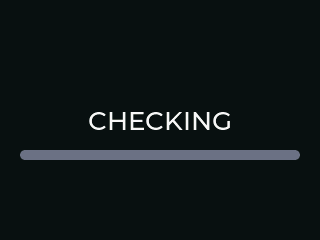
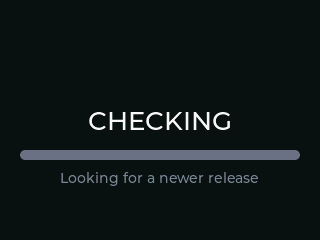
OTA: OK acknowledges the outcome, a detail line, and a 10 s / 300 s dwell
Makes the 16 failing cases from e87753c pass. Three pieces.

THE DWELL. kFailureHoldMs 30 s -> 10 s, kAckTimeoutMs 120 s -> 300 s.
The owner's reason for 300 s: "I don't want to miss it if I'm away in the
workshop looking at something else." The owner also observed the two
numbers "sound like the same", which was fair, so the header now says
plainly that the FLOOR only stops a stray keypress dismissing a notice
before it has been readable, and the DWELL is the operator-facing
unattended wait - only the second was ever what you sit through.

What 300 s costs is written into that header rather than left to be
rediscovered: while hasOTA() is true, timerCallback() runs
commsManager.loop() instead of spindle->update() + leadscrew->update(),
so the motion loop is idle for the whole five minutes. Accepted, because
the operator has just started an update and OK now releases it - but
"the lathe was dead for five minutes" is what this looks like from the
outside, and nobody should have to work that out twice.

THE ACKNOWLEDGEMENT. A forced UiFocus::Ota in lib/ui, not a route in
src/buttonpad.cpp, because buttonpad.h says outright that nothing in src/
is host-testable and no new decision logic belongs there. It mirrors
UiFocus::Alarm: focus forced from both handleKey() and tick(), the run
latch, jog direction, confirm bar, press marker and menu all cleared,
every key inert except OK's Click, no idle timeout, released to Jog when
ctx.ota goes false.
[…]

Changed region(s): [[0.1875, 0.7, 0.8125, 0.7875]]

diff --git a/lib/ui/uistate.cpp b/lib/ui/uistate.cpp
@@ -237,6 +237,55 @@ UiIntent UiState::handleKey(UiKey key, UiKeyEvent ev, const UiContext& ctx,
   }
 
   // -------------------------------------------------------------------------
+  // THE OTA SCREEN (UiFocus::Ota), on the alarm pattern immediately above and
+  // for the same reason: the panel's whole job while GlobalState::hasOTA() is
+  // true is to show that screen and take the acknowledgement, so focus is
+  // FORCED and every key but OK is inert - HALT included. See
+  // test/test_uistate/test_uistate.cpp, "UiStateOta", for the full design
+  // rationale (why this needs a UiFocus rather than a route in ButtonPad, why
+  // HALT is inert here for a DIFFERENT mechanism than Alarm's, why the whole
+  // hasOTA() span is gated rather than only a settled failure).
+  //
+  // PRECEDENCE, decided deliberately rather than left to fall out of being
+  // written second: THE ALARM WINS. If ctx.alarm was true above, this code is
+  // never reached at all - the alarm branch already returned. A stepper fault
+  // is a machine-safety condition: the axis is stopped and HELD stopped, and
+  // the operator has a crash to clear before anything else matters. An OTA
+  // outcome is a notice, not a hazard - acknowledging it a tick late costs
+  // nothing. The two should never actually coincide (menuTileBlock() already
+  // refuses MENU_SOFTWARE_UPDATE while motionActive, so an update cannot even
+  // start with the machine unsafe to leave), but "should never coincide" is
+  // exactly the kind of claim a safety ordering must not be left to depend on,
+  // so the ordering is fixed here rather than accidental.
+  //
+  // OK emits AckOta unconditionally, on every click, regardless of phase:
+  // OtaOutcome::acknowledge() is documented safe to call at any point in the
+  // attempt, so UiState needs no visibility into OtaOutcome::requiresAck() to
+  // decide whether to ask.
+  // -------------------------------------------------------------------------
+  if (ctx.ota) {
+    m_menuOpen = false;
+    m_focus = UiFocus::Ota;
+    m_runPhase = RunPhase::None;
+    m_jogDir = 0;
+    m_stopsConfirming = false;
+    m_stopsOpenedByPress = false;
+    if (key == UiKey::Ok && ev == UiKeyEvent::Click) {
+      return UiIntent::AckOta;
+    }
+    return UiIntent::None;
+  }
+
+  // Leaving the OTA screen behind - same reasoning as leaving the alarm above:
+  // a key event can arrive before the next tick() observes hasOTA() going
+  // false, and it must be judged against a focus this file actually
+  // recognises rather than falling through every branch below to whatever the
+  // per-focus arrow switch's default happens to do with UiFocus::Ota.
+  if (m_focus == UiFocus::Ota) {
+    m_focus = UiFocus::Jog;
+  }
+
+  // -------------------------------------------------------------------------
   // HALT: checked before focus, before overlays, before anything (§5).
   // Safety-critical, so it fires on the earliest event of the gesture (Press)
   // as well as on Click and Hold. CancelMotion is idempotent, so a short press
@@ -1142,6 +1191,47 @@ bool UiState::tick(const UiContext& ctx, unsigned long nowMs) {
   if (m_focus == UiFocus::Alarm) {
     // The fault has cleared. Back to the rest screen - see the matching note
     // in handleKey() for why Jog and not wherever the operator had been.
+    m_focus = UiFocus::Jog;
+    return true;
+  }
+
+  // -------------------------------------------------------------------------
+  // THE OTA SCREEN, above close-on-motion for the same reason the alarm is:
+  // it overrides everything, and - unlike a widget or the carousel - it can be
+  // ENTERED with no key event at all, since GlobalState::hasOTA() becomes true
+  // from a menu activation that already closed the carousel on its own (see
+  // the handleKey() note on precedence for why the alarm check above already
+  // covers the case where both were somehow true at once).
+  //
+  // This is also what RELEASES the screen: OK only acknowledges, it does not
+  // dismiss, so the screen comes down only once hasOTA() itself goes false -
+  // the OTA task's own exitAction() - and this is where the panel finds out.
+  //
+  // No idle timeout in either direction, for the same reason as the alarm: an
+  // update the operator has walked away from must still be on screen when
+  // they come back.
+  // -------------------------------------------------------------------------
+  if (ctx.ota) {
+    m_stopsConfirming = false;
+    m_stopsOpenedByPress = false;
+    // The jog direction and run latch go too, exactly as they do on the alarm
+    // path and for the same reason: an OTA attempt starting with no key event
+    // in sight (defensive today, see the block comment above kOta/kOtaMoving)
+    // must not leave a stale jog or run latch for a Release that arrives after
+    // the screen is already up.
+    m_runPhase = RunPhase::None;
+    m_jogDir = 0;
+    if (m_focus == UiFocus::Ota && !m_menuOpen) {
+      return false;  // already up: no transition, nothing to redraw
+    }
+    m_menuOpen = false;
+    m_focus = UiFocus::Ota;
+    return true;
+  }
+  if (m_focus == UiFocus::Ota) {
+    // hasOTA() has gone false. Back to the rest screen, same reasoning as
+    // leaving the alarm: whatever was open before the update started belongs
+    // to a machine state the operator has not seen for the whole attempt.
     m_focus = UiFocus::Jog;
     return true;
   }

diff --git a/lib/ota/otaoutcome.h b/lib/ota/otaoutcome.h
@@ -44,17 +44,44 @@
 //
 //   * ASYMMETRIC HOLDS. Success clears in kSuccessHoldMs (2 s): it is going to
 //     prove itself after the reboot anyway, so dwelling on it just makes the
-//     update feel slow. A failure holds kFailureHoldMs (30 s) - long enough
-//     that someone in the room will see it, and ten times the old window.
+//     update feel slow. A failure holds kFailureHoldMs.
 //   * ACKNOWLEDGEMENT SHORT-CIRCUITS THE HOLD. The hold exists only to stop the
 //     outcome being missed; a keypress is proof it was not, so acknowledge()
 //     releases immediately. Waiting out a timer someone is actively standing in
 //     front of teaches them to ignore the screen.
 //   * THE ACK IS BOUNDED, BUT THE EVIDENCE IS NOT. If nobody acknowledges a
-//     failure within kAckTimeoutMs (2 min) the modal releases on its own, so the
+//     failure within kAckTimeoutMs the modal releases on its own, so the
 //     machine is never trapped - but noticePending() stays true, so the normal
 //     screen keeps a "LAST UPDATE FAILED" banner until somebody clears it. The
 //     dialog is transient; the fact is not.
+//
+// kFailureHoldMs (10 s) AND kAckTimeoutMs (300 s) ANSWER DIFFERENT QUESTIONS,
+// even though nothing on screen distinguishes them - the modal looks identical
+// whether it is 3 s past the floor or 3 s from the timeout, and that is exactly
+// what makes the two easy to conflate.
+//
+//   * kFailureHoldMs is an UN-DISMISSABLE FLOOR. Its only job is to stop a
+//     stray keypress clearing the notice before it has been readable at all.
+//     Once the OK key was wired to acknowledge() (see UiFocus::Ota), an
+//     operator standing right there who has already read "UPDATE FAILED -
+//     <reason>" is not made to wait any longer than this for OK to do
+//     something.
+//   * kAckTimeoutMs is the OPERATOR-FACING UNATTENDED DWELL - the time the
+//     machine sits parked on the modal if nobody presses anything at all. The
+//     owner's own reasoning for 300 s: "I don't want to miss it if I'm away in
+//     the workshop looking at something else." This is the number that was
+//     ever the unattended wait; kFailureHoldMs never was one on its own, it is
+//     only a lower bound on it.
+//
+// WHAT 300 S COSTS, spelled out rather than left to be rediscovered: while
+// GlobalState::hasOTA() is true, timerCallback() (src/main.cpp) runs
+// commsManager.loop() instead of spindle->update() + leadscrew->update(), so
+// an unattended, unacknowledged failure leaves the motion loop idle for up to
+// five minutes. Accepted, not overlooked - the operator just asked for the
+// update themselves, so the machine is idle for that reason already, and the
+// wired ack key means an attended operator is never actually waiting that
+// long - but "the lathe was dead for five minutes" is exactly the kind of
+// thing that reads as a hang to whoever meets it next without this context.
 //
 // AND NOTHING THAT FAILED REBOOTS. An ESP32 OTA writes the *inactive* partition,
 // so a failed download has not touched the running image: there is nothing a
@@ -255,12 +282,17 @@ class OtaOutcome {
   // "Already up to date" is not a failure but it IS a result people miss, and
   // it is the one case where nothing else will ever tell them.
   static const unsigned long kInfoHoldMs = 6000;
-  // Ten times the old 3 s. Chosen to survive someone stepping away to fetch a
-  // tool mid-download, which is exactly when an update fails unwatched.
-  static const unsigned long kFailureHoldMs = 30000;
-  // After this the modal releases itself, unacknowledged, and the banner takes
-  // over. The machine is never left parked on a dialog nobody is coming to.
-  static const unsigned long kAckTimeoutMs = 120000;
+  // THE UN-DISMISSABLE FLOOR, not the unattended dwell - see the header
+  // comment ("kFailureHoldMs AND kAckTimeoutMs ANSWER DIFFERENT QUESTIONS").
+  // Stops a stray keypress clearing the notice before it has been readable;
+  // an attended operator's OK is honoured almost immediately above this.
+  static const unsigned long kFailureHoldMs = 10000;
+  // THE UNATTENDED SELF-RELEASE. After this the modal releases itself,
+  // unacknowledged, and the banner takes over. The machine is never left
+  // parked on a dialog nobody is coming to. 300 s (owner: "I don't want to
+  // miss it if I'm away in the workshop looking at something else") - see the
+  // header comment for what this costs the motion loop while it runs out.
+  static const unsigned long kAckTimeoutMs = 300000;
   // How long a restored SUCCESS banner shows on the new firmware's first screen.
   static const unsigned long kNoticeMs = 10000;
   // No byte in this long during a download = stalled. Longer than the HTTPClient

diff --git a/lib/display/ST7789_320_240displaylvgl.cpp b/lib/display/ST7789_320_240displaylvgl.cpp
@@ -1819,6 +1819,7 @@ void Display::resetObjectTree() {
   alarmOkChip = nullptr;
   updateSlider = nullptr;
   updateLabel = nullptr;
+  updateDetailLabel = nullptr;
 
   for (int i = 0; i < TS_COUNT; i++) {
     m_textCache[i][0] = '\0';
@@ -2155,6 +2156,27 @@ void Display::initialiseOta() {
 
   lv_slider_set_range(updateSlider, 0, 100);
   lv_obj_set_style_pad_all(updateSlider, 0, 0);
+
+  // The one addition: a smaller second line below the bar, carrying the
+  // detail string on the rare attempt where otaFittedLine() has to fall back
+  // to the headline (see that function's comment, and drawOTA() below). Empty
+  // at creation, like updateLabel's "Updating..." placeholder gets overwritten
+  // on the first drawOTA() -- this stays empty until there is genuinely
+  // something for it to say, so it is never a visible label with nothing in
+  // it. Montserrat 14, the same size the state bar and the alarm modal already
+  // use, so no new font is linked (LV_MEM_SIZE is tight -- see CLAUDE.md).
+  // textDim, not textPrimary: this is the secondary line, and it must not
+  // compete with updateLabel for attention.
+  updateDetailLabel = lv_label_create(lv_screen_active());
+  lv_label_set_text(updateDetailLabel, "");
+  lv_obj_set_style_text_font(updateDetailLabel, &lv_font_montserrat_14, 0);
+  lv_obj_set_style_text_color(updateDetailLabel, m_palette->textDim, 0);
+  lv_obj_set_width(updateDetailLabel, 280);
+  lv_obj_set_style_text_align(updateDetailLabel, LV_TEXT_ALIGN_CENTER, 0);
+  lv_label_set_long_mode(updateDetailLabel, LV_LABEL_LONG_WRAP);
+  // Below the bar (bar is y 150..160) with a clear 10 px gap, so a two-line
+  // wrap never touches it; well clear of the bottom edge too.
+  lv_obj_align(updateDetailLabel, LV_ALIGN_TOP_MID, 0, 170);
 }
 
 // Builds the whole main screen ONCE. Nothing here may be repeated per tick: the
@@ -2894,8 +2916,17 @@ void Display::drawOTA() {
     // publish -- a few hundred ms in practice. One string, owned here, that
     // deliberately does not duplicate anything OtaOutcome says.
     lv_label_set_text(updateLabel, "Starting update...");
+    lv_label_set_text(updateDetailLabel, "");
   } else {
-    lv_label_set_text(updateLabel, otaFittedLine(headline, detail));
+    const char* fitted = otaFittedLine(headline, detail);
+    lv_label_set_text(updateLabel, fitted);
+    // The second line carries the detail ONLY when it is not what just went
+    // into updateLabel -- i.e. only when otaFittedLine() had to fall back to
+    // the headline because the detail did not fit at Montserrat 26. When the
+    // detail itself fit (or there is none), this stays empty rather than
+    // repeating what updateLabel already shows.
+    lv_label_set_text(updateDetailLabel,
+                       (fitted == detail) ? "" : detail);
   }
 
   // A failure is now the one state on this screen that does not end in a

diff --git a/src/buttonpad.cpp b/src/buttonpad.cpp
@@ -14,6 +14,8 @@
 #include "alarm.h"
 #include "WebSettings.h"
 #include "setupmode.h"
+// commsManager, for UiIntent::AckOta -> ESPCommsManager::acknowledgeOutcome().
+#include "ESPCommsManager.h"
 
 // The one Display, built by main.cpp's setup(). Reached by extern rather than
 // injected because ButtonPad is constructed FIRST there (Display's constructor
@@ -122,6 +124,13 @@ UiContext ButtonPad::buildContext() {
   // where the alarm task publishes it; ButtonPad never touches the AlarmMonitor
   // except to ask for a clear.
   ctx.alarm = globalState->alarmActive();
+  // The OTA screen. True for the whole of GlobalState::hasOTA()'s span -
+  // connecting/checking/downloading/settled, not only a settled failure - see
+  // the long comment on UiContext::ota in lib/ui/uistate.h and the UiStateOta
+  // block in test/test_uistate/test_uistate.cpp for why. ButtonPad never talks
+  // to ESPCommsManager to READ this; GlobalState is the one bus both tasks
+  // already use (see the "Cross-task state" note in CLAUDE.md).
+  ctx.ota = globalState->hasOTA();
   return ctx;
 }
 
@@ -247,6 +256,18 @@ void ButtonPad::applyIntent(UiIntent intent) {
     // state stays SS_UNSYNC, so the operator jogs and re-syncs deliberately,
     // which is the whole reason the dialog says so.
     alarmRequestClear();
+    break;
+
+  // --- The OTA screen -------------------------------------------------------
+  case UiIntent::AckOta:
+    // OK on the OTA screen. Like ClearAlarm, this does NOT dismiss anything:
+    // it only reaches OtaOutcome::acknowledge() through commsManager, which
+    // lets the OTA task's own exitAction() release the modal early instead of
+    // waiting out kAckTimeoutMs (lib/ota/otaoutcome.h). UiState emits this
+    // unconditionally on every OK click while ctx.ota is true, regardless of
+    // phase - acknowledge() is documented safe to call before the outcome has
+    // even settled.
+    commsManager.acknowledgeOutcome();
     break;
 
   case UiIntent::JogStop:

diff --git a/src/ESPCommsManager.h b/src/ESPCommsManager.h
@@ -95,6 +95,24 @@ public:
     // delay is (see main.cpp). Both are no-ops on an ordinary boot.
     bool beginBootNotice();
     bool bootNoticeDone();
+
+    // OK on the OTA screen (UiIntent::AckOta, src/buttonpad.cpp). Forwards to
+    // OtaOutcome::acknowledge() - documented safe to call at any phase of the
+    // attempt, including before it has settled, which is why applyIntent()
+    // does not need to ask requiresAck() first. m_outcome is private so this
+    // is the one crossing point; acknowledge() itself is the volatile
+    // single-writer (DisplayTask) / single-reader (OTA task) flag, the same
+    // no-locks bargain as AlarmMonitor::requestClear().
+    void acknowledgeOutcome() { m_outcome.acknowledge(); }
 };
+
+// The one ESPCommsManager, built by main.cpp (main.cpp:39). Reached by extern
+// rather than injected for the same reason `extern Display* display;` is in
+// src/buttonpad.cpp: ButtonPad is constructed before commsManager exists, so
+// there is no ordering in which it could arrive through a constructor
+// argument. Safe to call acknowledgeOutcome() through this from the
+// DisplayTask regardless of what commsManager.loop() is doing on its own
+// task - see the method's own comment.
+extern ESPCommsManager commsManager;
 
 #endif

diff --git a/lib/display/ST7789_320_240displaylvgl.h b/lib/display/ST7789_320_240displaylvgl.h
@@ -260,6 +260,12 @@ private:
   // OTA screen (separate screen, unchanged by the redesign)
   lv_obj_t* updateSlider;
   lv_obj_t* updateLabel;
+  // The one addition to this screen: a smaller second line, below the bar,
+  // that carries the detail string ONLY when otaFittedLine() had to fall back
+  // to the headline because the detail did not fit at Montserrat 26. Left
+  // empty otherwise, so it is never a visible label with nothing useful in
+  // it. See drawOTA() and otaFittedLine().
+  lv_obj_t* updateDetailLabel;
 
   // --- Redraw suppression ---------------------------------------------------
   // Display::update() re-runs every draw*() at 10 Hz, and LVGL's setters for

diff --git a/tools/screenshot/src/scenes.cpp b/tools/screenshot/src/scenes.cpp
@@ -148,6 +148,11 @@ UiContext ctxOf(Rig& r) {
   const GlobalFeedMode fm = r.gs->getFeedMode();
   c.threadMode = (fm == FM_THREAD || fm == FM_THREAD_REVERSE);
   c.alarm = r.gs->alarmActive();
+  // Same reasoning as threadMode above: leaving this UNSET fed garbage into
+  // the new UiFocus::Ota gate the moment it existed, since UiContext is a
+  // bare struct with no member-wise default. Built off the same GlobalState
+  // ButtonPad::buildContext() reads.
+  c.ota = r.gs->hasOTA();
   return c;
 }
 
